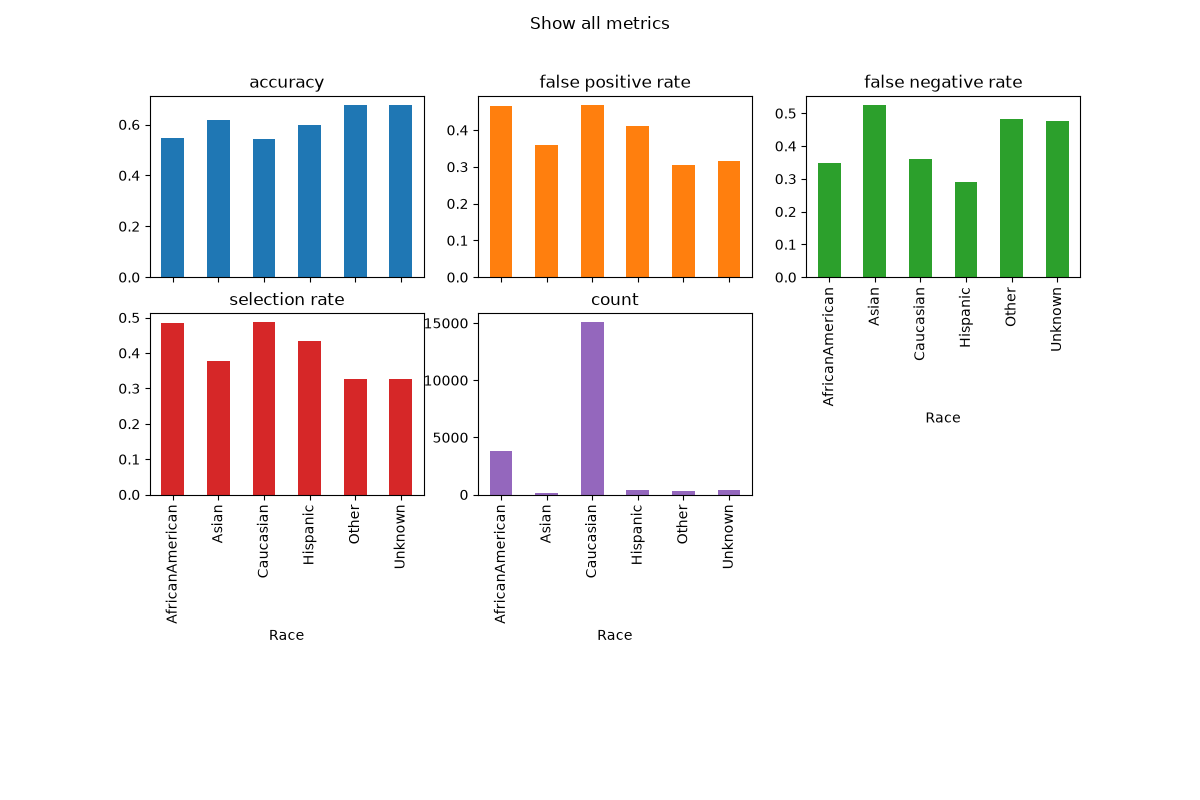
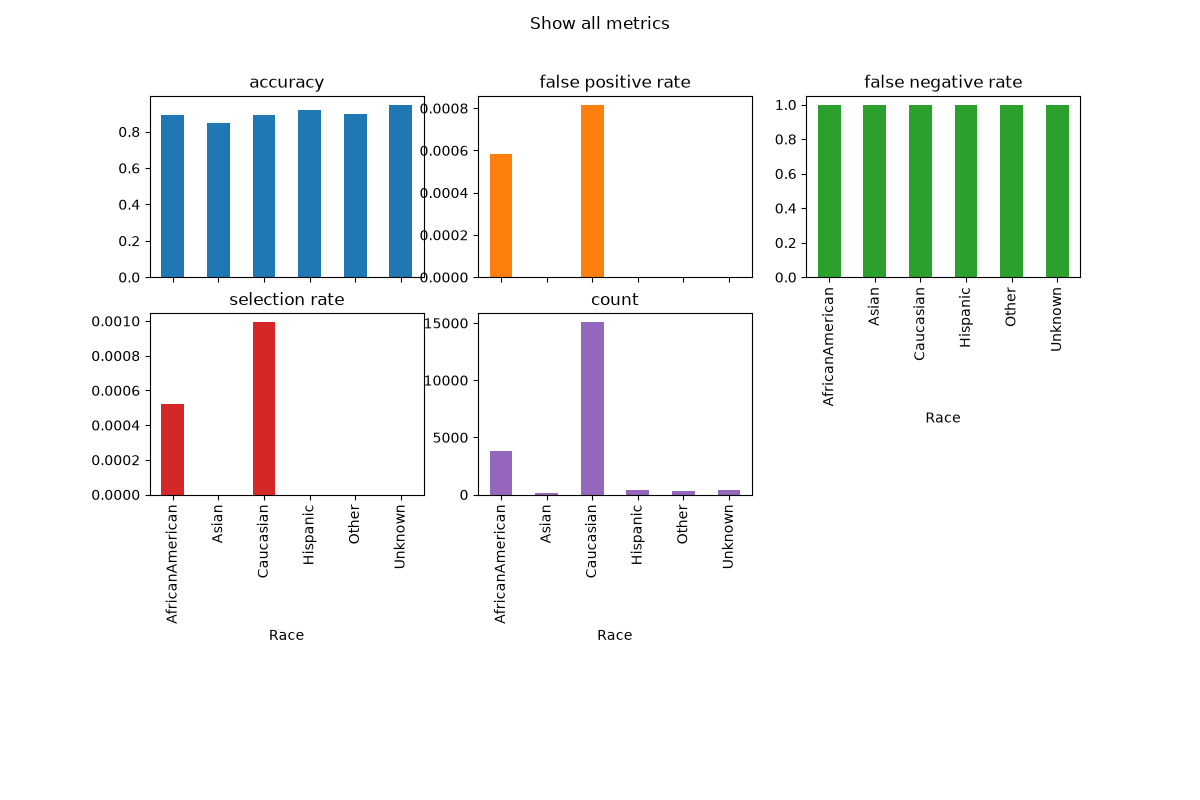
Updating and bugfixing class based threshold optimization

diff --git a/src/main.py b/src/main.py
@@ -10,8 +10,7 @@ from .analysis import feature_analysis, evaluate_model
 
 SEED = 42  # set seed for consistent results
 np.random.seed(SEED)
-GSS = True
-THRESHOLD = False
+THRESHOLD = True
 
 
 def transform_data(data):
@@ -22,58 +21,105 @@ def transform_data(data):
     """
 
     # Getting X without the targets.
-    X = data
-    y = data["readmit_30_days"]
-    patient_nbr=data["patient_nbr"]
-    X.drop(columns=["readmitted", "readmit_binary", "readmit_30_days"], inplace=True)
+    y = data["readmit_30_days"].copy()
+    patient_nbr = data["patient_nbr"].copy()
 
-    race = X["race"]
-    age = X["age"]
-    x_ohe = pd.get_dummies(X)
-    return patient_nbr, race, age, x_ohe, y
+    race = data["race"].copy()
+    age = data["age"].copy()
+    X = data.drop(columns=[
+        "readmitted",
+        "readmit_binary",
+        "readmit_30_days",
+        "patient_nbr"]).copy()
 
-def train_model(X_train, y_train, race_train, threshold=True):
+
+    X_ohe = pd.get_dummies(X)
+    return patient_nbr, race, age, X_ohe, y
+
+def train_model(X_train, y_train, X_val, y_val, race_val, threshold=True):
+    # Train the model
     model = Pipeline([
         ("scaler", StandardScaler()),
         ("classifier", LogisticRegression(
-            max_iter=1000,
-            solver="lbfgs",
-            random_state=SEED,
+            max_iter=10000,
+            random_state=SEED
         ))
     ])
+    model.fit(X_train, y_train)
+
     if threshold:
         threshold_optimizer = post.ThresholdOptimizer(
             estimator=model,
             constraints="false_negative_rate_parity",
-            objective="true_positive_rate",
+            objective="balanced_accuracy_score",
             predict_method="predict_proba",
-            prefit=False,
+            prefit=True,
         )
-        model = threshold_optimizer.fit(X_train, y_train, sensitive_features=race_train)
+        model = threshold_optimizer.fit(X_val, y_val, sensitive_features=race_val)
         return model, threshold_optimizer
     else:
-        model.fit(X_train, y_train)
         return model, False
 
-def train_test_split_data(patient_nbr,X_ohe, y, race, age, group_shuffle_split=True):
-    if group_shuffle_split:
-        gss = GroupShuffleSplit(n_splits=1, test_size=0.2, random_state=SEED)
-    
-        train_idx, test_idx = next(gss.split(X_ohe, y, patient_nbr))
-    
-        X_train, X_test = X_ohe.iloc[train_idx], X_ohe.iloc[test_idx]
-        y_train, y_test = y.iloc[train_idx], y.iloc[test_idx]
-        race_train, race_test = race.iloc[train_idx], race.iloc[test_idx]
-        age_train, age_test = age.iloc[train_idx], age.iloc[test_idx]
-        X_train.drop(columns=["patient_nbr"], inplace=True)
-        X_test.drop(columns=["patient_nbr"], inplace=True)
+from sklearn.model_selection import GroupShuffleSplit
 
-    else:
-        X_train, X_test, y_train, y_test, race_train, race_test, age_train, age_test = (
-                    train_test_split(X_ohe, y, race, age, random_state=SEED, stratify=y)
-                )
+def train_val_test_split_data(X, y, race, age, patient_nbr):
+    # First split: 80% train+validation, 20% test
+    gss = GroupShuffleSplit(
+        n_splits=1,
+        test_size=0.2,
+        random_state=42
+    )
+
+    train_val_idx, test_idx = next(
+        gss.split(X, y, groups=patient_nbr)
+    )
+
+    train_idx_rel, val_idx_rel = next(
+        gss.split(
+            X.iloc[train_val_idx],
+            y.iloc[train_val_idx],
+            groups=patient_nbr.iloc[train_val_idx]
+        )
+    )
+
+    train_idx = train_val_idx[train_idx_rel]
+    val_idx = train_val_idx[val_idx_rel]
+
+    def subset(indices):
+        return (
+            X.iloc[indices],
+            y.iloc[indices],
+            race.iloc[indices],
+            age.iloc[indices]
+        )
+
+    return (
+        subset(train_idx),
+        subset(val_idx),
+        subset(test_idx)
+    )
+
+
+# def train_test_split_data(patient_nbr,X_ohe, y, race, age, group_shuffle_split=True):
+#     if group_shuffle_split:
+#         gss = GroupShuffleSplit(n_splits=1, test_size=0.2, random_state=SEED)
+    
+#         train_idx, test_idx = next(gss.split(X_ohe, y, patient_nbr))
+    
+#         X_train, X_test = X_ohe.iloc[train_idx], X_ohe.iloc[test_idx]
+#         y_train, y_test = y.iloc[train_idx], y.iloc[test_idx]
+#         race_train, race_test = race.iloc[train_idx], race.iloc[test_idx]
+#         age_train, age_test = age.iloc[train_idx], age.iloc[test_idx]
+
+#         X_train.drop(columns=["patient_nbr"], inplace=True)
+#         X_test.drop(columns=["patient_nbr"], inplace=True)
+
+#     else:
+#         X_train, X_test, y_train, y_test, race_train, race_test, age_train, age_test = (
+#                     train_test_split(X_ohe, y, race, age, random_state=SEED, stratify=y)
+#                 )
         
-    return X_train, X_test, y_train, y_test, race_train, race_test, age_train, age_test
+#     return X_train, X_test, y_train, y_test, race_train, race_test, age_train, age_test
     
 def main():
     # Load the diabetes hospital dataset and transform it
@@ -85,17 +131,17 @@ def main():
     feature_analysis(race, y, "race")
     feature_analysis(age, y, "age")
 
-    # Train test split
-    X_train, X_test, y_train, y_test, race_train, race_test, \
-    age_train, age_test = train_test_split_data(patient_nbr, X_ohe, y, race, age, GSS)
+    # Train test split, for every tuple it contans: X, Y, race, age
+    train, val, test = train_val_test_split_data(X_ohe, y, race, age, patient_nbr)
 
-    # Train and Evaluate the model
     sensitive_data = pd.DataFrame(
-        np.stack([race_test, age_test], axis=1), columns=["Race", "Age"]
+        np.stack([test[2], test[3]], axis=1), columns=["Race", "Age"]
     )
 
-    model, threshold_optimizer = train_model(X_train, y_train, race_train, THRESHOLD)
-    evaluate_model(model, X_test, y_test, sensitive_data, THRESHOLD)
+    # Train and Evaluate the model
+    model, threshold_optimizer = train_model(train[0], train[1], val[0], val[1], val[2], THRESHOLD)
+    evaluate_model(model, test[0], test[1], sensitive_data, THRESHOLD)
+    
     if threshold_optimizer:    
         post.plot_threshold_optimizer(threshold_optimizer)
 
